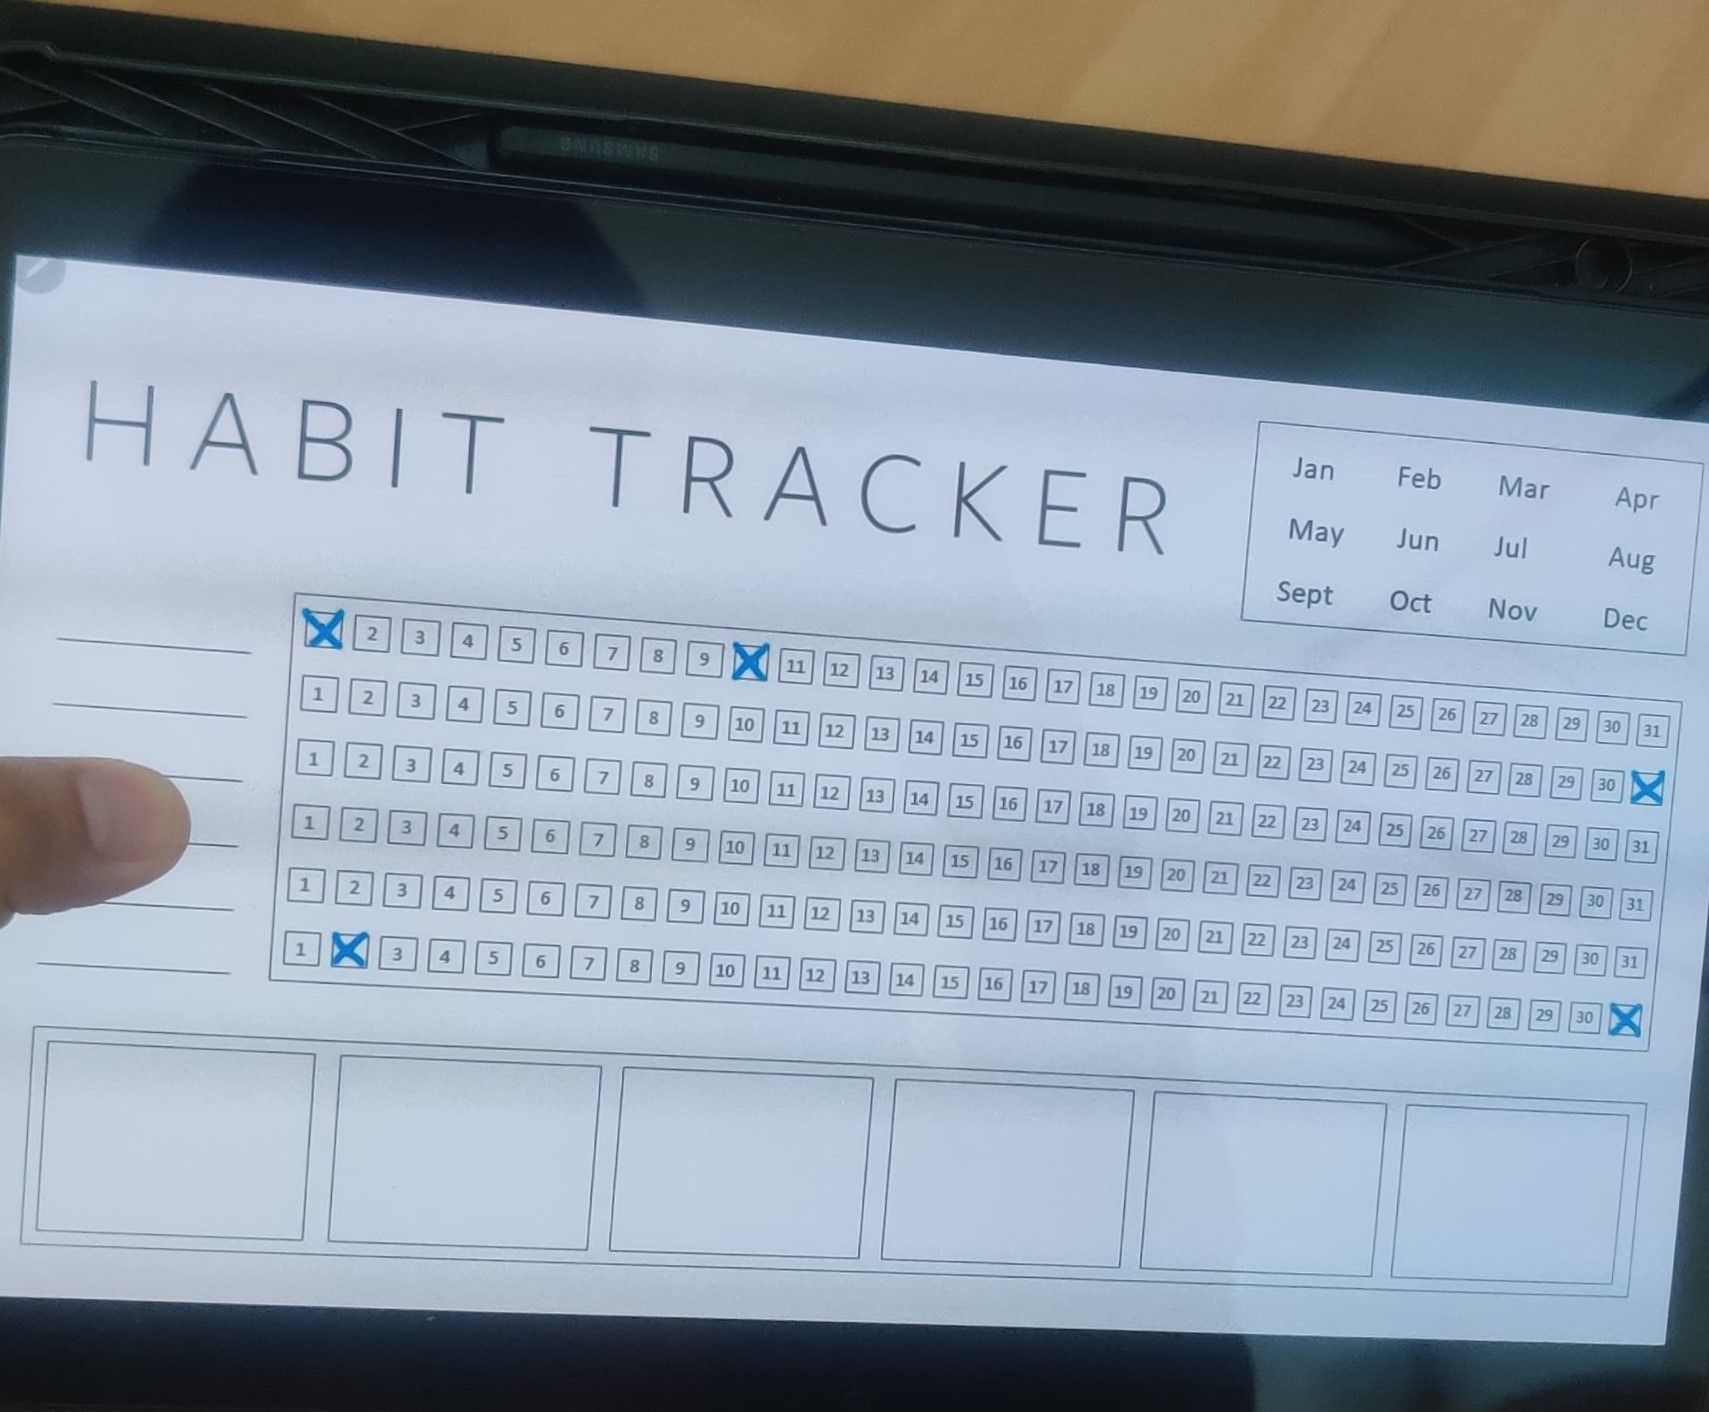
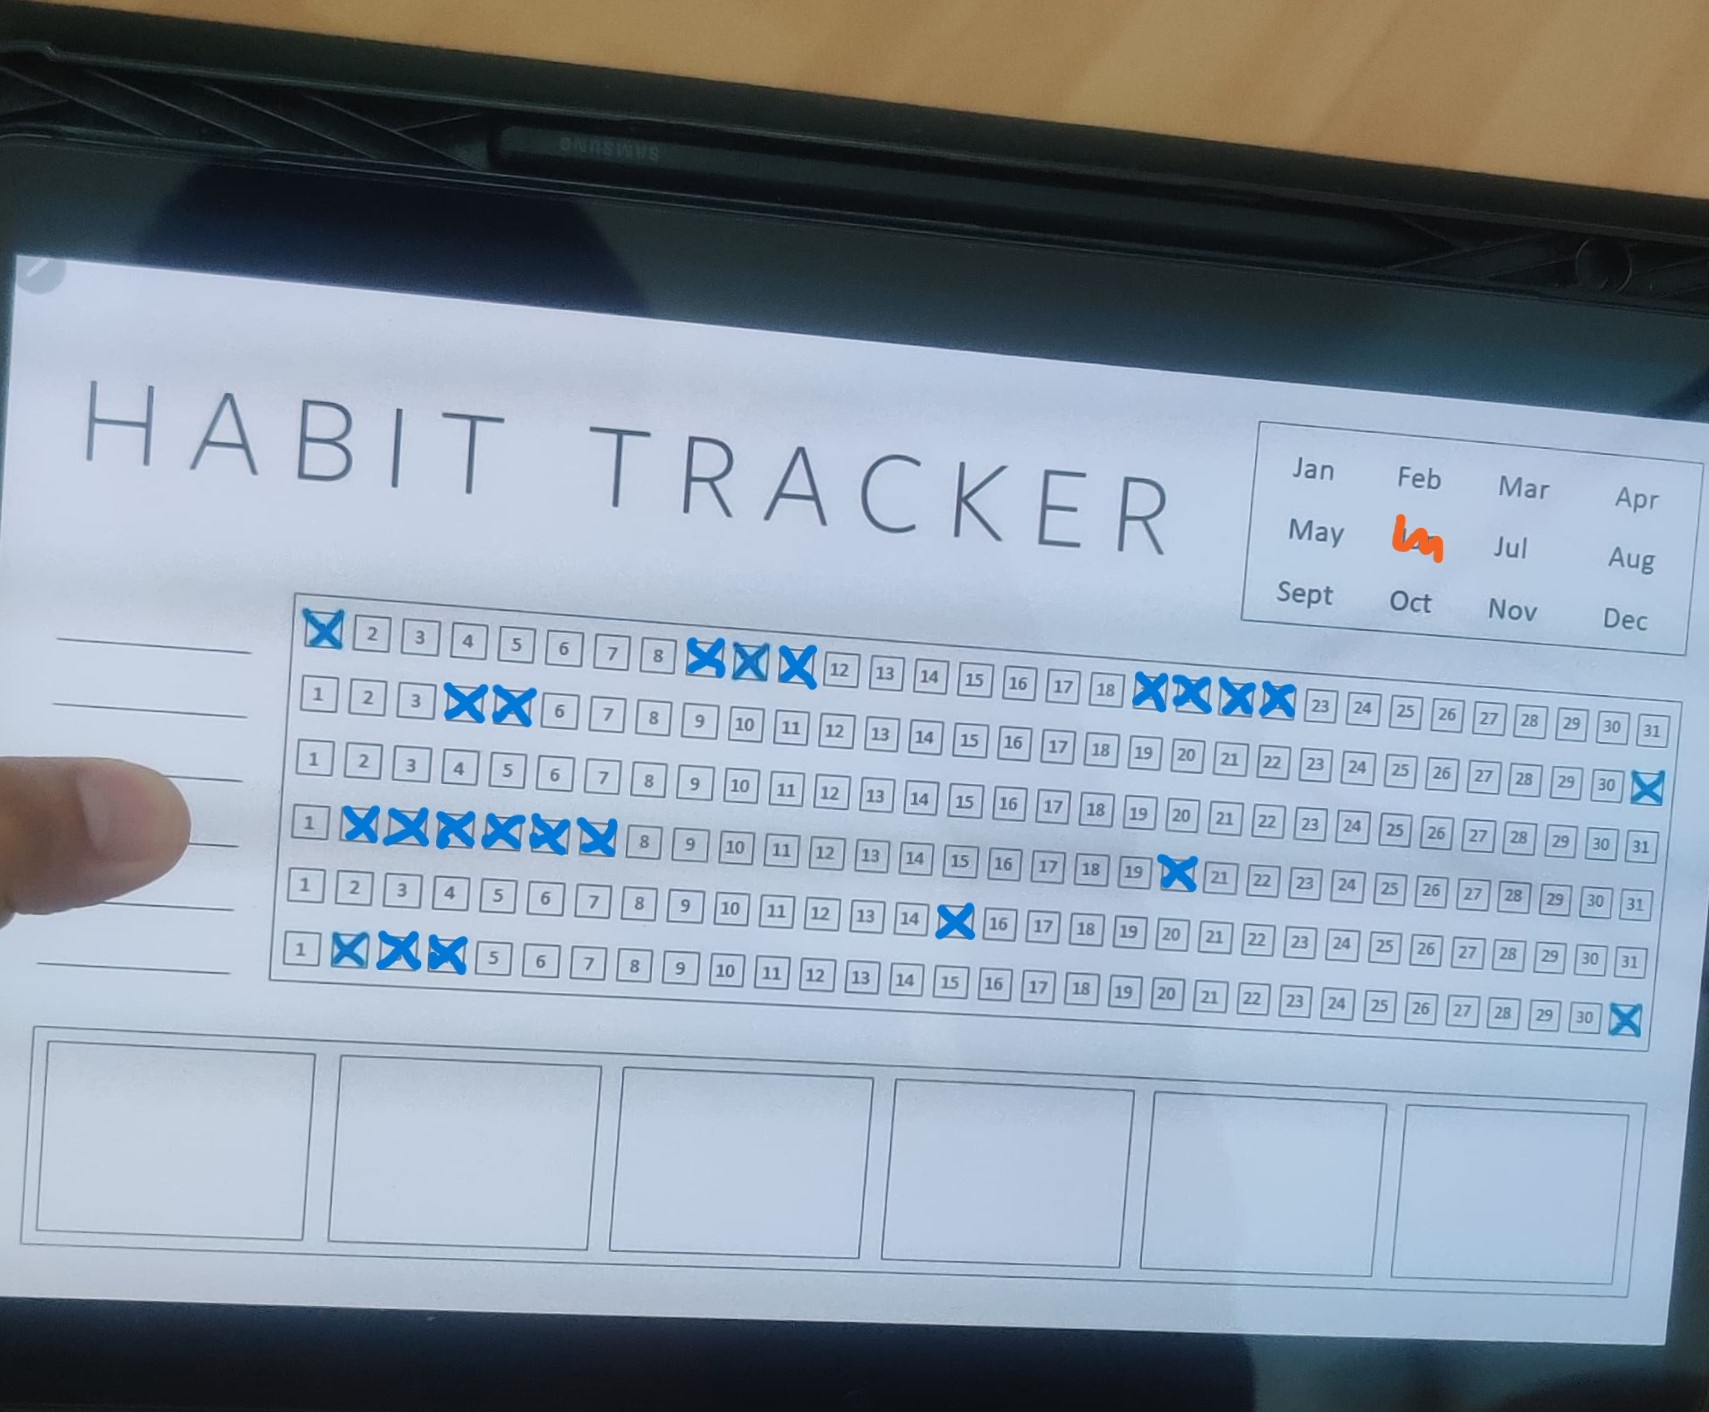
process month area and obtain pixel values

diff --git a/main.py b/main.py
@@ -72,13 +72,15 @@ if biggest_rectCon.size != 0 and second_biggest_rectCon.size != 0 and third_bigg
     cv2.imshow('Warped Image Second', imgWarpColoredS)
 
     # Warp the third biggest rectangle
-    monthImgWidth = 355
-    monthImgHeight = 148
+    monthImgWidth = 356                         # must be divisible by 4 (columns)
+    monthImgHeight = 150                        # must be divisible by 3 (rows)
     ptT1 = np.float32(third_biggest_rectCon)
     ptT2 = np.float32([[0, 0], [monthImgWidth, 0], [0, monthImgHeight], [monthImgWidth, monthImgHeight]])
     matrixT = cv2.getPerspectiveTransform(ptT1, ptT2)
     imgWarpColoredT = cv2.warpPerspective(img, matrixT, (monthImgWidth, monthImgHeight))
     cv2.imshow('Warped Image Third', imgWarpColoredT)
+
+    ##################### Processing the checkbox area #####################
 
     # Convert the warped image of the biggest rect contour to grayscale and apply thresholding
     imgWarpGray = cv2.cvtColor(imgWarpColored, cv2.COLOR_BGR2GRAY)
@@ -86,8 +88,8 @@ if biggest_rectCon.size != 0 and second_biggest_rectCon.size != 0 and third_bigg
     cv2.imshow('Thresh Image', imgThresh)
 
     # Get the boxes from the biggest rect contour warped image 
-    boxes = utils.splitBoxes(imgThresh, habits)
-    cv2.imshow('Boxes Image', boxes[2])   # Display the third box
+    boxes = utils.splitBoxes(imgThresh, habits, 31)     # 6 rows and 31 columns
+    #cv2.imshow('Boxes Image', boxes[2])   # Display the third box
     # print(len(boxes))                   # 186 boxes (6x31)
     # print(boxes[0].shape)               # (124, 24)         i.e. 124 x 6 = 744 and 24 x 31 = 744
 
@@ -133,6 +135,8 @@ if biggest_rectCon.size != 0 and second_biggest_rectCon.size != 0 and third_bigg
     mask = np.any(imgInvWarp != 0, axis=-1)
     imgFinal[mask] = imgInvWarp[mask]
 
+    ##################### Processing the stats area #####################
+
     # Display the stats on a black image
     imgRawStats = np.zeros_like(imgWarpColoredS)
     total_days = utils.count_total_days(binary_array)
@@ -149,6 +153,32 @@ if biggest_rectCon.size != 0 and second_biggest_rectCon.size != 0 and third_bigg
     # Overlay the stats image on the original image
     maskStats = np.any(imgInvWarpStats != 0, axis=-1)
     imgFinal[maskStats] = imgInvWarpStats[maskStats]
+
+    ##################### Processing the month area #####################
+
+    # Convert the warped image of the third biggest rect contour to grayscale and apply thresholding
+    imgWarpGrayT = cv2.cvtColor(imgWarpColoredT, cv2.COLOR_BGR2GRAY)
+    imgThreshT = cv2.threshold(imgWarpGrayT, 170, 255, cv2.THRESH_BINARY_INV)[1]
+
+    # Get the boxes from the third biggest rect contour warped image
+    month_boxes = utils.splitBoxes(imgThreshT, 3, 4)           # 3 rows and 4 columns
+    # cv2.imshow('Month Boxes Image', month_boxes[0])          # Display the first month box
+    # print(len(month_boxes))                                  # 12 boxes (3x4)
+    # print(month_boxes[0].shape)                              # (50, 89)         i.e. 50 x 3 = 150 and 89 x 4 = 356
+
+    # Get the non-zero pixel values of each box
+    monthPixelVal = np.zeros((3, 4))  # 3x4
+    countR = 0
+    countC = 0
+    for image in month_boxes:
+        totalPixels = cv2.countNonZero(image)
+        monthPixelVal[countR][countC] = totalPixels
+        countC += 1
+        if countC == 4:
+            countR += 1
+            countC = 0
+    print(monthPixelVal)
+
     
     cv2.imshow('Final Image', imgFinal)
     

diff --git a/utils.py b/utils.py
@@ -87,19 +87,19 @@ def reorder(myPoints):
     return myPointsNew
 
 
-def splitBoxes(img, habits=6):
+def splitBoxes(img, rows=6, cols=31):
     """
-    This function takes the image as input and returns the split boxes (6x31)
+    This function takes the image as input and returns the split boxes (rowsxcols)
     """
-    rows = np.vsplit(img, habits)  # SPLIT THE IMAGE INTO 6 ROWS
+    rows = np.vsplit(img, rows)  # SPLIT THE IMAGE INTO GIVEN ROWS
     boxes = []  # array to store all boxes
     
     for r in rows:
         # Calculate the width of each column
-        col_width = r.shape[1] // 31
-        extra_pixels = r.shape[1] % 31
+        col_width = r.shape[1] // cols
+        extra_pixels = r.shape[1] % cols
         
-        for i in range(31):
+        for i in range(cols):
             if i < extra_pixels:
                 col = r[:, i*col_width + i:(i+1)*col_width + i + 1]  # Add an extra pixel for the first 'extra_pixels' columns
             else:
